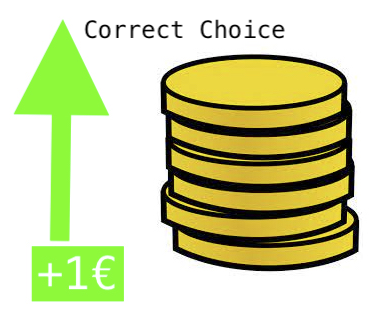
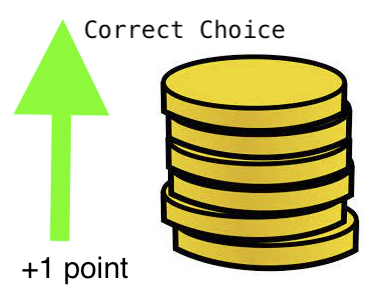
Updates for SONA.

diff --git a/pento-js/study2/study2.html b/pento-js/study2/study2.html
@@ -14,7 +14,7 @@
 
 <body>
 	<div class="container">
-		<h5>Select the described piece on the left board!<div id="timer"><span style="color:red">00:00</span></div><div id="correct_counter">Correct: <span style="color:green">0</span> / 12</div></h5>
+		<h5>Select the described piece on the board!<div id="timer"><span style="color:red">00:00</span></div><div id="correct_counter">Correct: <span style="color:green">0</span> / 12</div></h5>
 		<hr>
 		<div class="row">
 			<div class="eight columns">
@@ -47,16 +47,16 @@
 			<h2>Welcome to the PENTOMINO study!</h2>
 			<p><center><img src="../resources/img/laptop.png" alt="laptop" width="350" height="160"></center></p>
 			<center><p>You will soon be instructed by an <strong>artificial agent</strong> to pick pentomino objects.<br></p></center>
-			Try to make <strong>as few mistakes as possible</strong> in the task. <strong>You will be paid 1€ more per correct answer.</strong></p>
+			Try to make <strong>as few mistakes as possible</strong> in the task. <strong>You will be paid more for correct answers.</strong></p>
 			<p id="payment"></p>
 			<script>
 				if (CONDITION == 3) {
-					document.getElementById("payment").innerHTML = '<p><center><img src="../resources/img/payment2.png" alt="payment" width="350" height="160"></center></p><center>Every time you ask for <strong>additional assistance (Tell-Me-More button)</strong> you will lose <strong>0.20€</strong>.</center>';
+					document.getElementById("payment").innerHTML = '<p><center><img src="../resources/img/payment2.png" alt="payment" width="350" height="160"></center></p><center>Every time you ask for <strong>additional assistance (Tell-Me-More button)</strong> you will lose <strong>0.2 points</strong>.</center>';
 				} else {
 					document.getElementById("payment").innerHTML = '<p><center><img src="../resources/img/payment1.png" alt="payment" width="200" height="160"></center></p>';
 				}
 			</script>
-			<p>The task will last around <strong>10 minutes</strong> and you will be paid at least <strong>5€</strong> regardless of your performance.</p>
+			<p><center>The task will last around <strong>15 minutes</strong> and you will be reimbursed via <strong>SONA/email</strong>.</center></p>
 			<center><button id="welcome_done">Continue</button></center>
 		</dialog>
 
@@ -112,7 +112,7 @@
 				document.getElementById("willinstruct").innerHTML = "<center>In this study you will assess <strong>" + agent_name + "</strong> instructing you to pick pentomino " +
 				"objects.<br>You can see your time and your score the top right of your screen.</center>";
 			</script>
-			<center><p>It is important that you are fluent in English. The study is voluntary and will last ~10 minutes.<br>
+			<center><p>It is important that you are fluent in English. The study is voluntary and will last ~15 minutes.<br>
 			We collect your mouse movements as well as your responses to the questions provided.<br>
 			The anonymous data will only be used for research purposes and may be shared with other researchers.</p></center>
 			<hr>

diff --git a/pento-js/study2/start.html b/pento-js/study2/start.html
@@ -1,0 +1,17 @@
+<html>
+  <head>
+    <script src='../js/jquery.min.js'></script>
+    <script>
+    var ELEPHANT = 1;
+    var CONDITION = Math.floor(Math.random() * 3) + 1;
+
+    $(function(){
+      $("#includedContent").load("study2.html");
+    });
+    </script>
+  </head>
+
+  <body>
+     <div id="includedContent"></div>
+  </body>
+</html>
